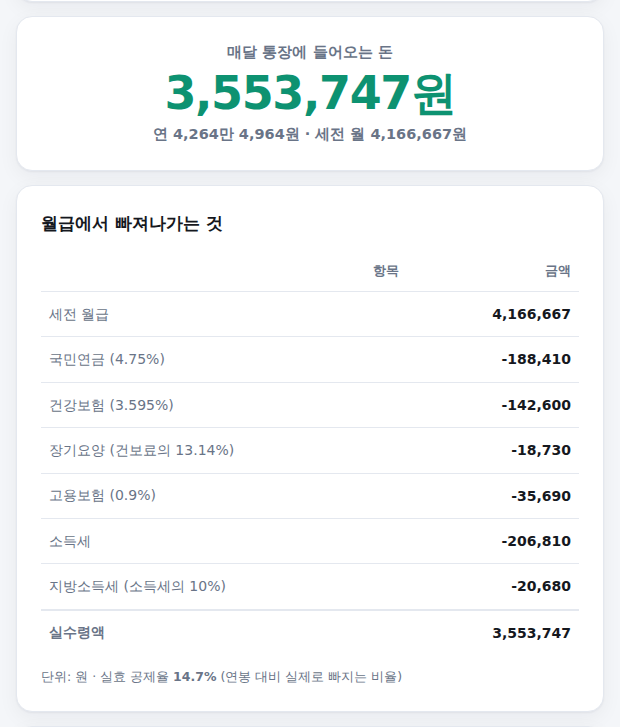
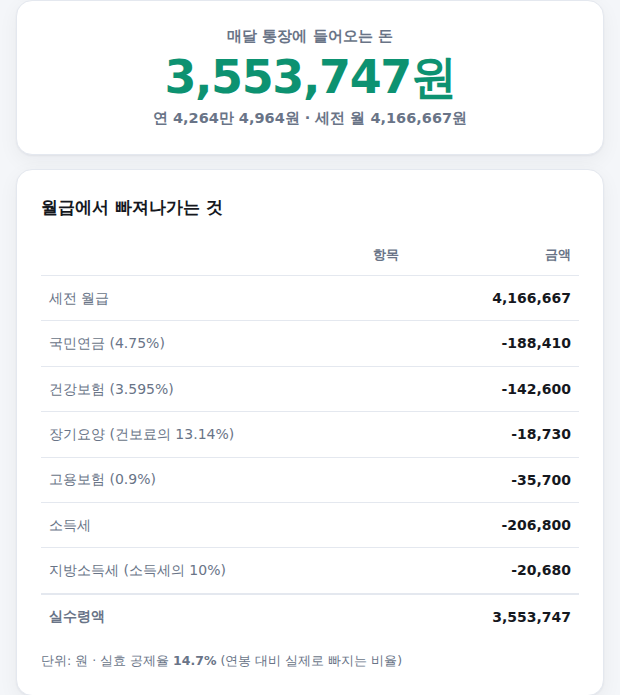
연봉 계산기 부동소수점 오차로 고용보험료가 10원 낮게 계산되던 버그 수정
- 원인: 3,966,666.666… × 0.9% 가 자바스크립트에서 35,699.99999…로 계산돼
  10원 미만 절사 단계에서 35,700원이 아닌 35,690원이 됨
- 영향: 연봉 2,000만~1억 5,000만 구간 중 24.2%(315/1,301건)에서 고용보험료 10원 과소,
  그만큼 실수령액이 10원 과다 표시
- 수정: floorTo() 도입 — 0.001원 단위 반올림 후 절사. 4대보험 4개 항목과
  소득세·지방소득세 월할 계산에 모두 적용
- 검증: 7개 연봉 구간에서 정수 연산 기대값과 브라우저 출력이 전부 일치
- 값이 바뀐 이용법 스크린샷 2장(결과 화면·인상 시뮬레이션) 재촬영

Claude-Session: https://claude.ai/code/session_01FHtNtifBFhcLFReKxE7fCr

diff --git a/salary-tax.js b/salary-tax.js
@@ -48,6 +48,12 @@ var el = {
   rMonth: $('r-month')
 };
 
+/* ---------- 계산 보조 ----------
+   부동소수점 오차 제거: 0.001원 단위로 반올림한 뒤 절사한다.
+   (예: 3,966,666.666… × 0.9% = 35,699.99999…원 → 35,700원)
+   이 보정이 없으면 10원 미만 절사 단계에서 10원이 깎인다. */
+function floorTo(n, unit) { return Math.floor(Math.round(n * 1000) / 1000 / unit) * unit; }
+
 /* ---------- 숫자 포맷 ---------- */
 function onlyDigits(s) { return String(s).replace(/[^0-9]/g, ''); }
 function comma(n) { return Number(n).toLocaleString('ko-KR'); }
@@ -136,10 +142,10 @@ function calculate(annualSalary, family, monthlyMeal) {
 
   // 4대보험 (월, 10원 미만 절사)
   var pensionBase = Math.min(Math.max(monthlyTaxable, RULES.PENSION_MIN), RULES.PENSION_MAX);
-  var pension = Math.floor(pensionBase * RULES.PENSION_RATE / 10) * 10;
-  var health  = Math.floor(monthlyTaxable * RULES.HEALTH_RATE / 10) * 10;
-  var care    = Math.floor(health * RULES.CARE_RATE / 10) * 10;
-  var employ  = Math.floor(monthlyTaxable * RULES.EMPLOY_RATE / 10) * 10;
+  var pension = floorTo(pensionBase * RULES.PENSION_RATE, 10);
+  var health  = floorTo(monthlyTaxable * RULES.HEALTH_RATE, 10);
+  var care    = floorTo(health * RULES.CARE_RATE, 10);
+  var employ  = floorTo(monthlyTaxable * RULES.EMPLOY_RATE, 10);
   var insurance = pension + health + care + employ;
 
   // 소득세 (연말정산 기준)
@@ -150,10 +156,10 @@ function calculate(annualSalary, family, monthlyMeal) {
   var taxBase = Math.max(0, incomeAmount - deductions);
   var calcTax = progressiveTax(taxBase);
   var incomeTax = Math.max(0, calcTax - earnedTaxCredit(calcTax, gross));
-  var localTax = Math.floor(incomeTax * 0.1);
+  var localTax = floorTo(incomeTax * 0.1, 1);
 
-  var taxMonthly = Math.floor(incomeTax / 12 / 10) * 10;
-  var localMonthly = Math.floor(localTax / 12 / 10) * 10;
+  var taxMonthly = floorTo(incomeTax / 12, 10);
+  var localMonthly = floorTo(localTax / 12, 10);
 
   var grossMonthly = Math.round(annualSalary / 12);
   var netMonthly = grossMonthly - insurance - taxMonthly - localMonthly;

diff --git a/salary-guide.html b/salary-guide.html
@@ -55,7 +55,7 @@
       <li class="step">
         <p class="step-title">결과 확인 — 실수령액과 공제 내역</p>
         <p>입력하는 즉시 위에 <strong>월 실수령액</strong>이 크게 나타나고, 아래 표에서 국민연금·건강보험·장기요양·고용보험·소득세·지방소득세가 각각 얼마씩 빠지는지 확인할 수 있습니다. 맨 아래 <strong>실효 공제율</strong>은 연봉 대비 실제로 빠지는 비율입니다.</p>
-        <img class="step-shot" src="salary-guide-3-result.png" alt="월 실수령액 헤드라인과 공제 내역 표 화면" loading="lazy" width="620" height="727">
+        <img class="step-shot" src="salary-guide-3-result.png" alt="월 실수령액 헤드라인과 공제 내역 표 화면" loading="lazy" width="620" height="695">
         <p class="step-caption">결과 화면</p>
       </li>
 
